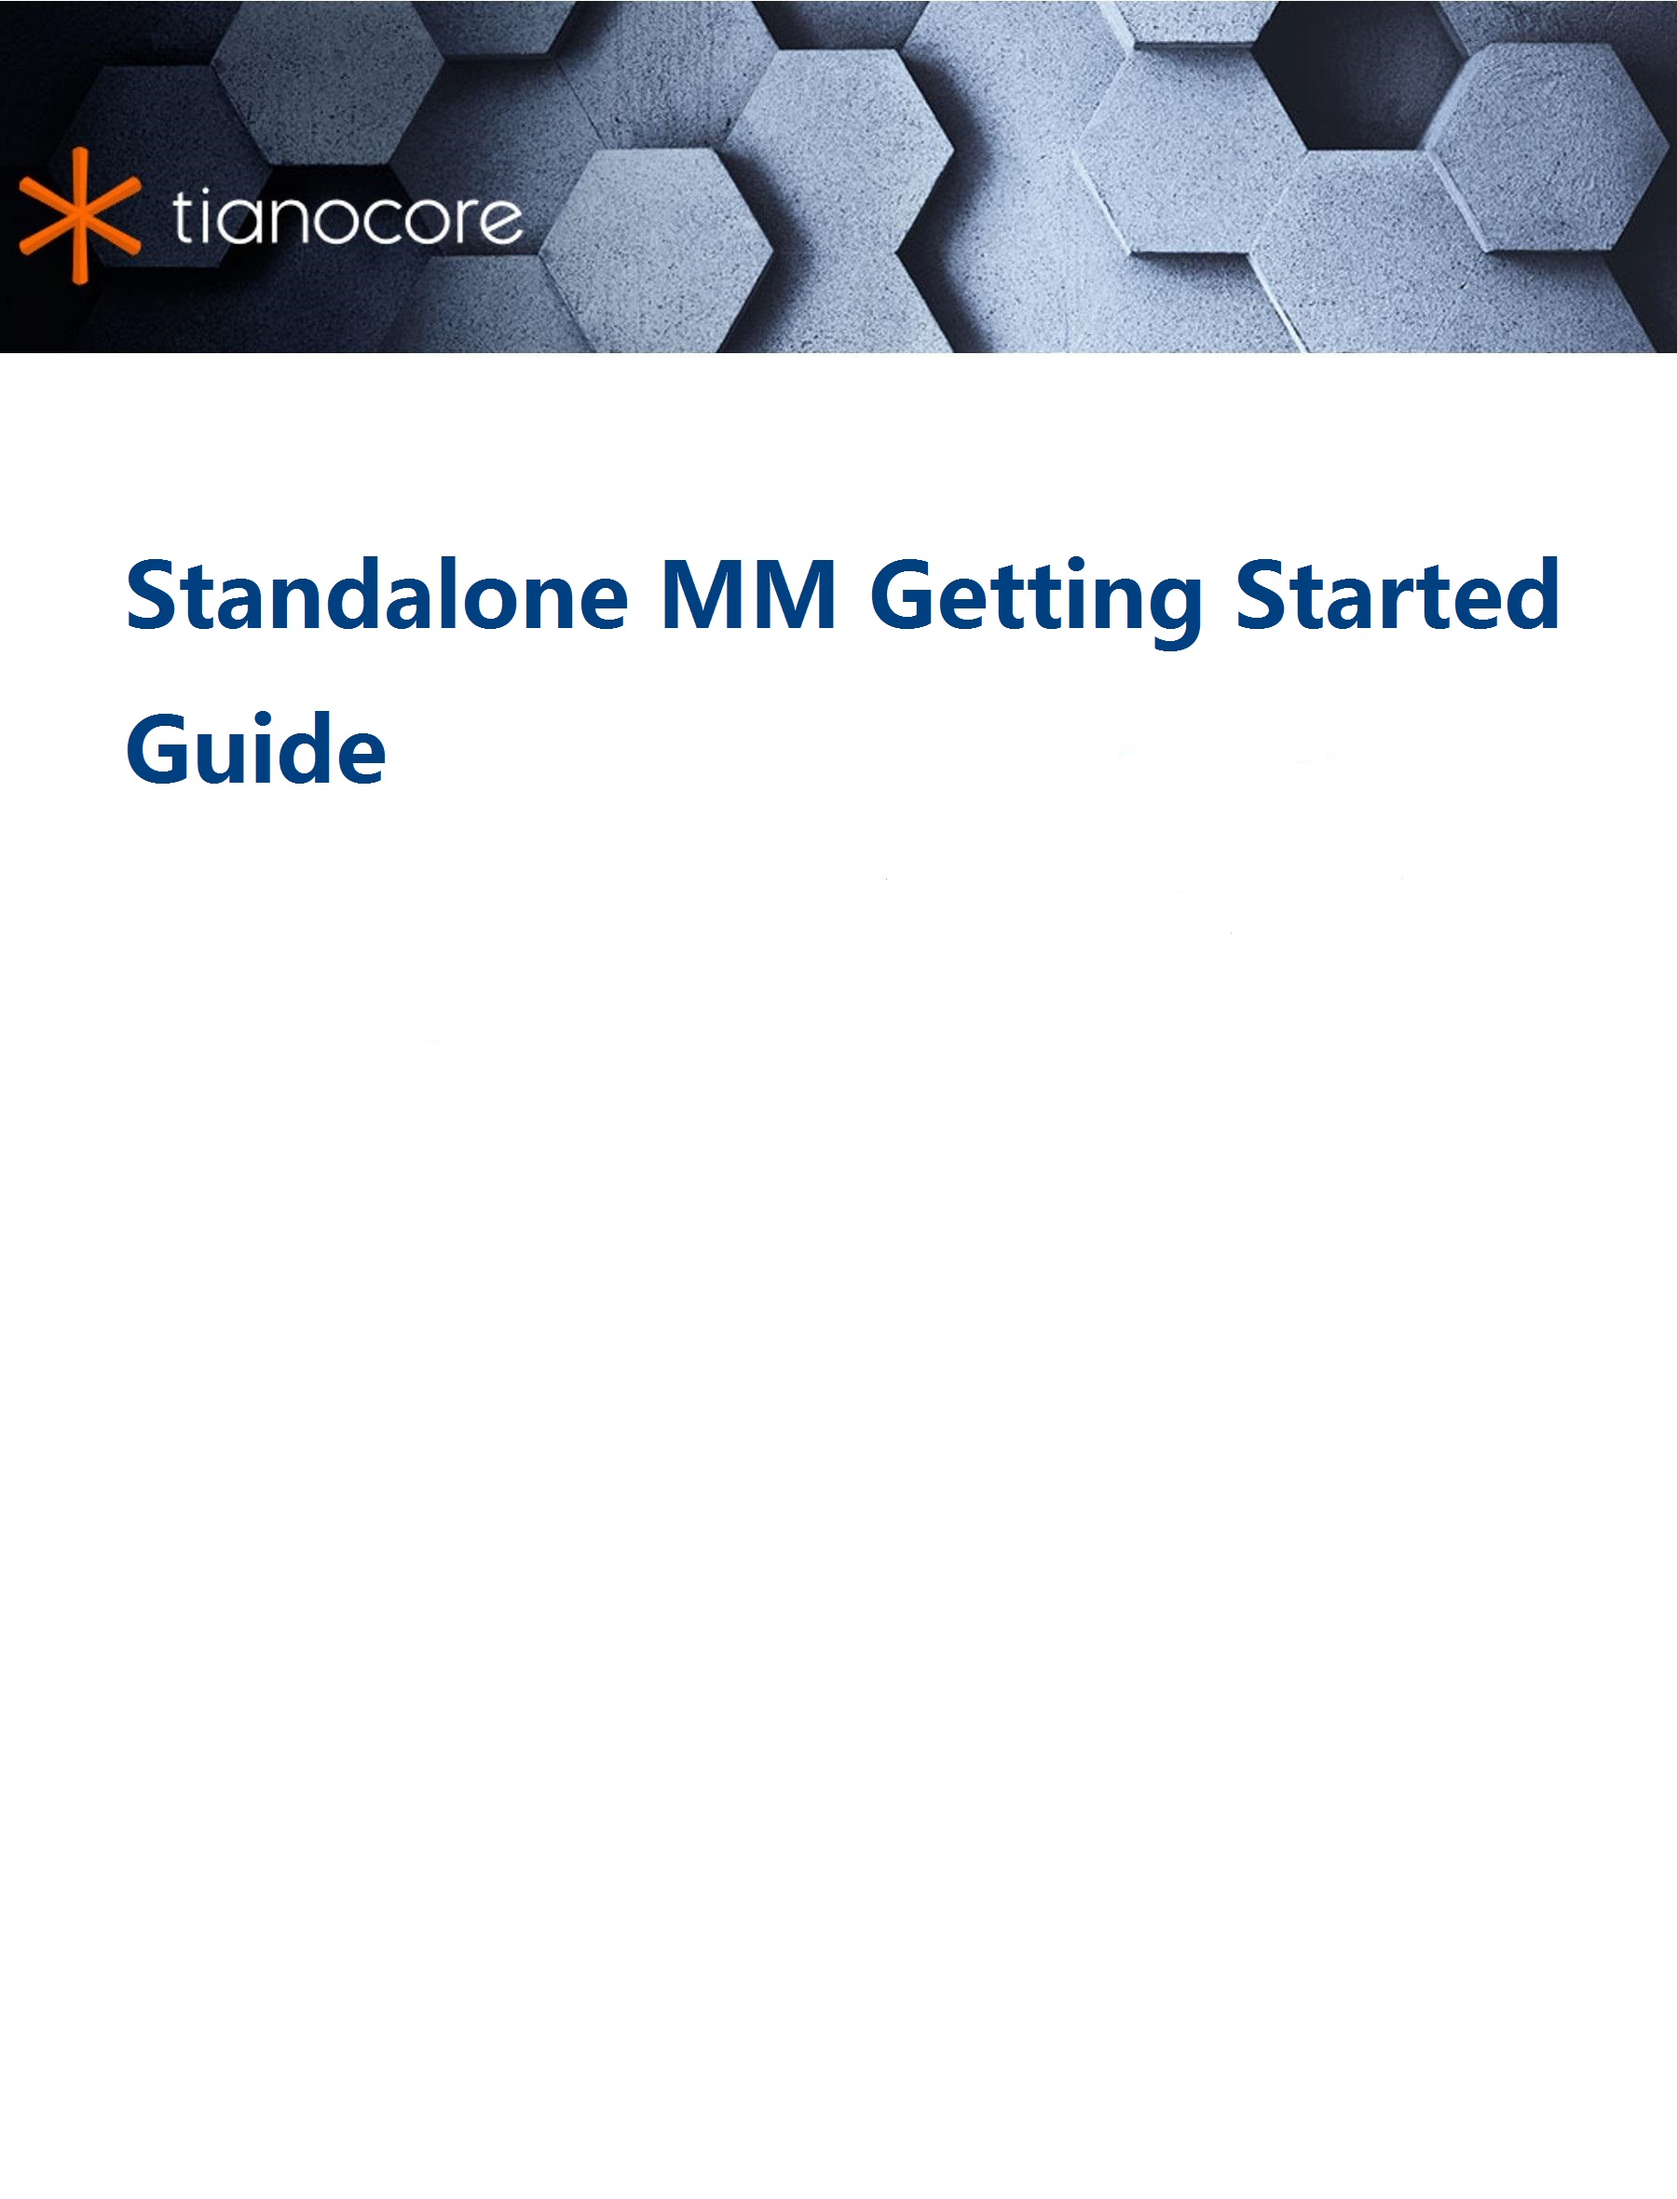
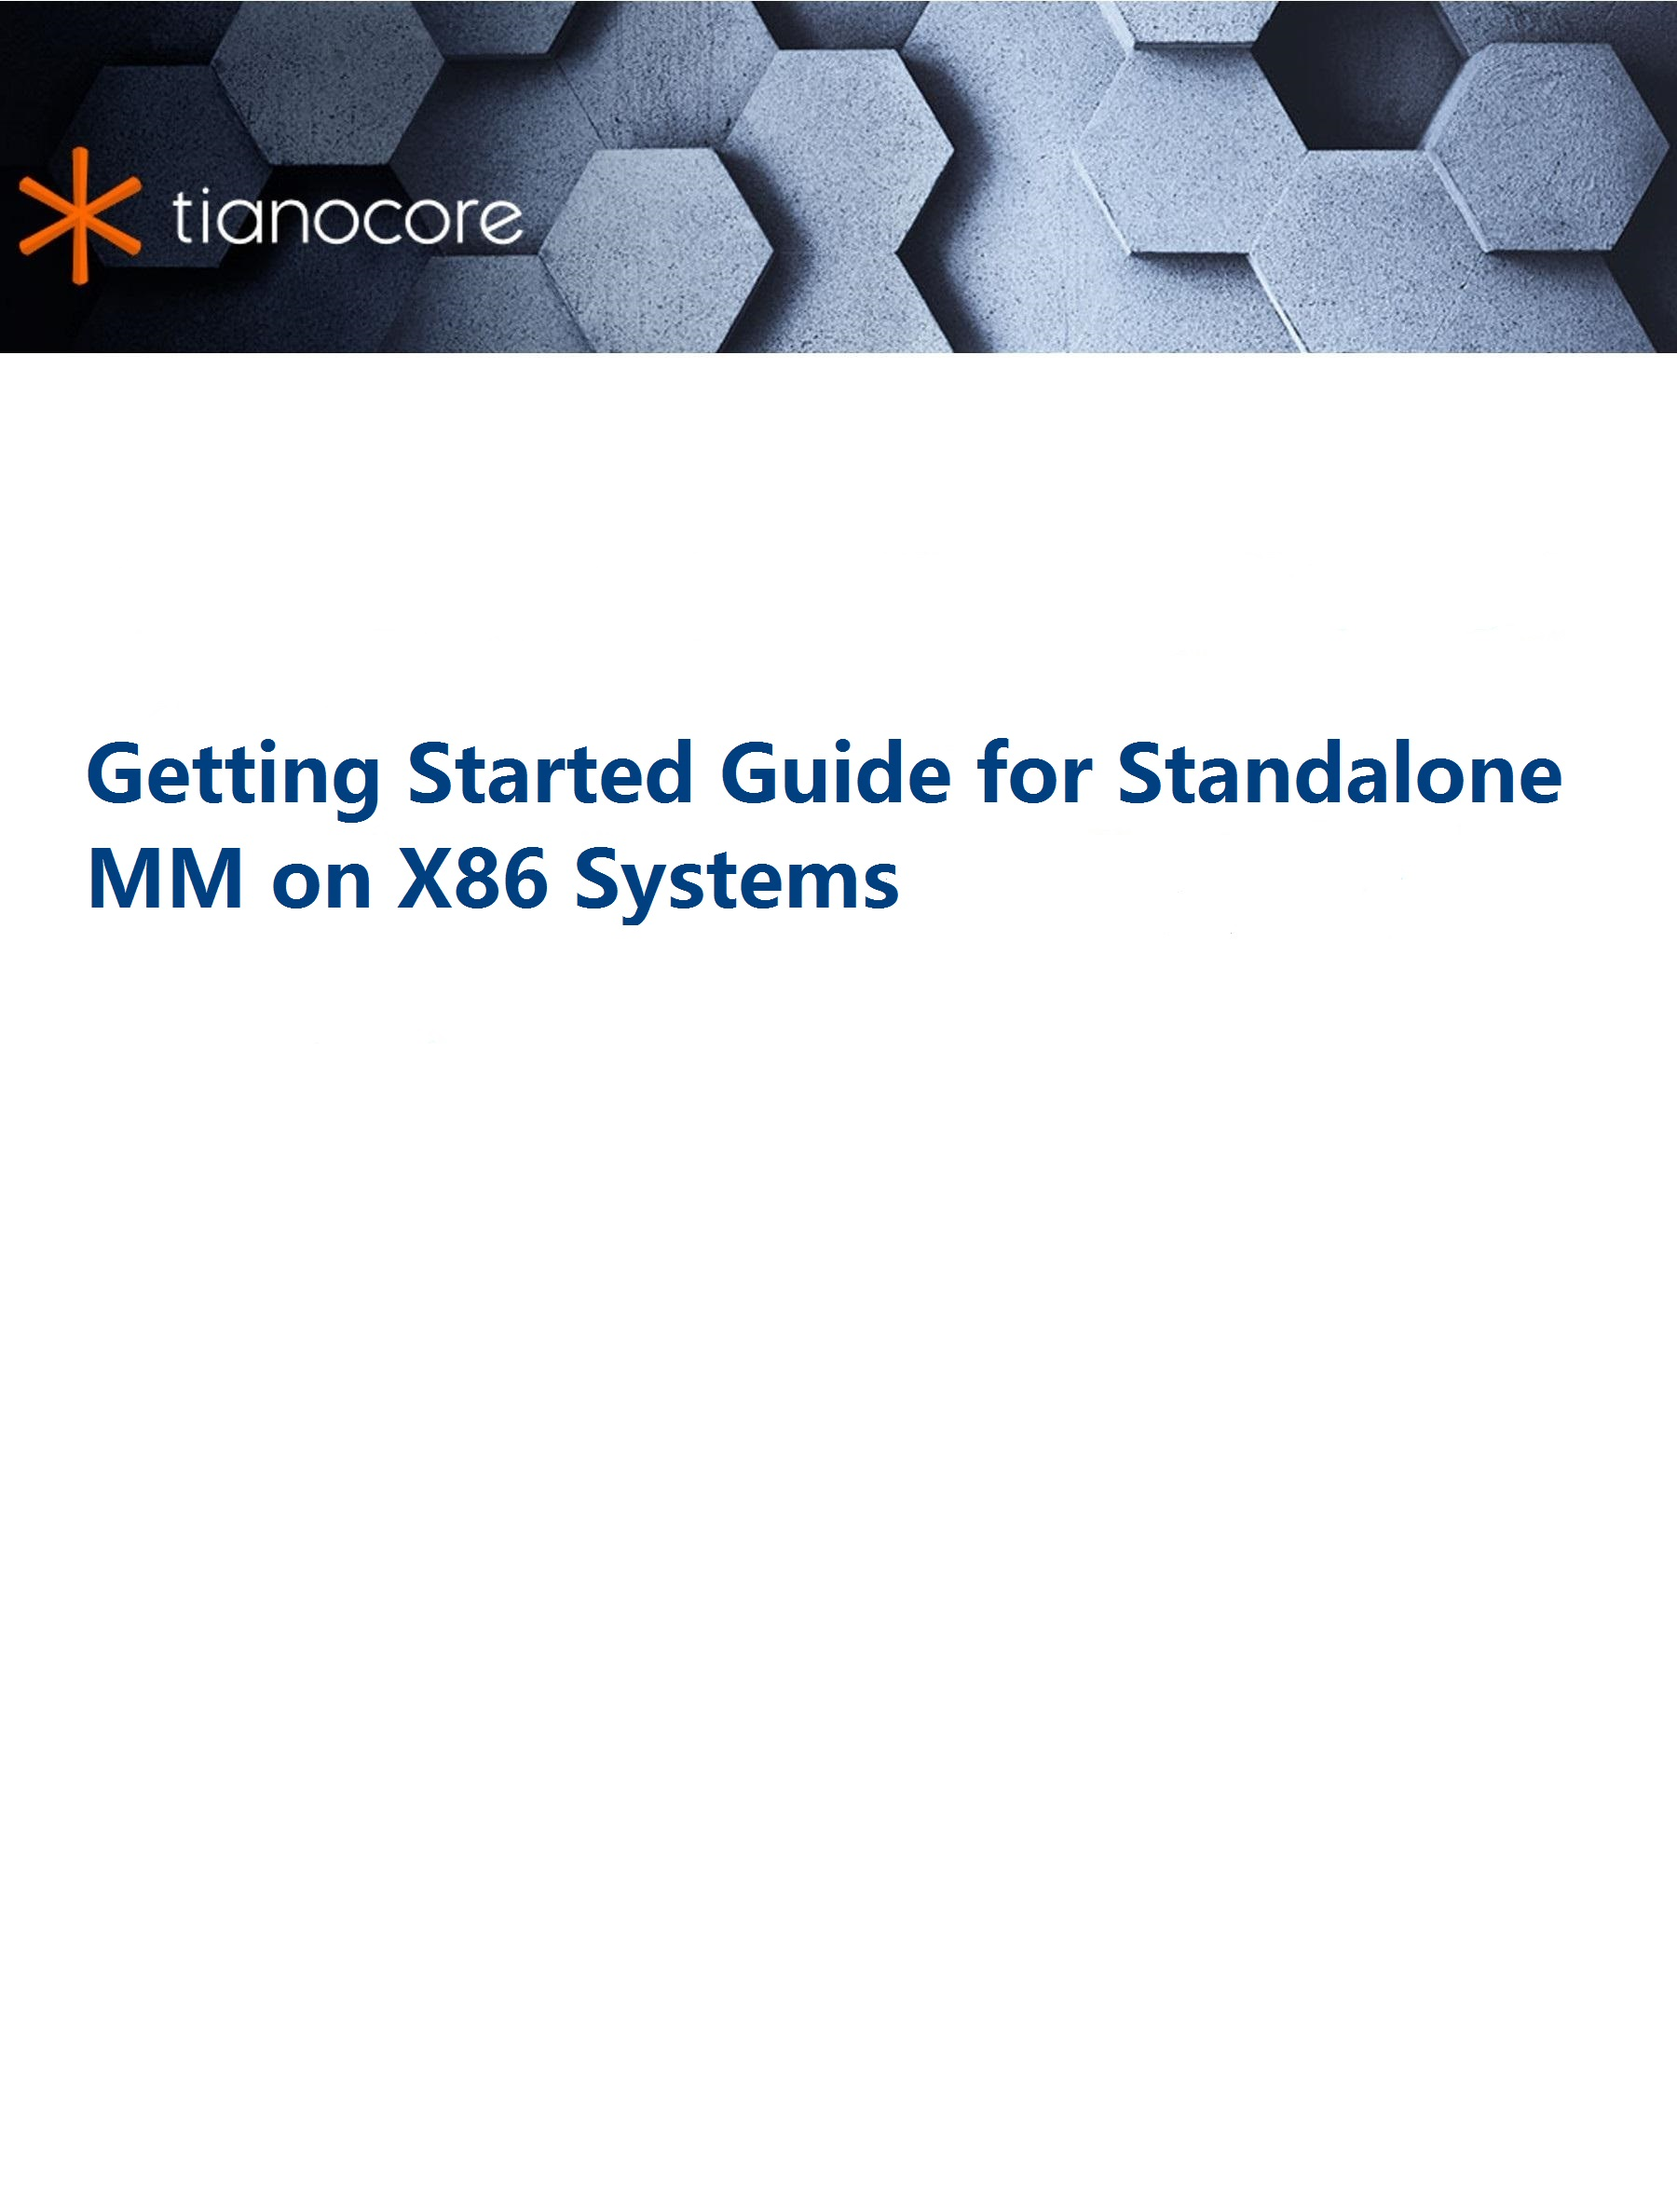
Make the document specific for X86 systems

Changed region(s): [[0.0311, 0.2475, 0.9333, 0.4331]]

diff --git a/1_mm_introduction.md b/1_mm_introduction.md
@@ -1,5 +1,5 @@
 <!--- @file
-  First Chapter of Standalone MM Getting Started Guide
+  First Chapter of Getting Started Guide for Standalone MM on X86 Systems
 
   Copyright (c) 2025, Intel Corporation. All rights reserved.<BR>
 
@@ -33,7 +33,7 @@
 
 ## 1.1 SMM and MM Overview
 
-This section describes the main differences between Traditional SMM and Standalone MM. A detailed comparison of the Traditional MM and Standalone MM load process is described in the PI Specification sections "Initializing Management Mode in MM Traditional Mode" and "Initializing Management Mode in Standalone Mode" respectively.
+This section describes the main differences between Traditional SMM and Standalone MM on X86 systems. A detailed comparison of the Traditional MM and Standalone MM load process is described in the PI Specification sections "Initializing Management Mode in MM Traditional Mode" and "Initializing Management Mode in Standalone Mode" respectively.
 
 In the following comparison, we will use "SMM" to represent "Traditional SMM" and "MM" to represent "Standalone MM".
 
@@ -59,7 +59,7 @@ MM Driver:
 
 ## 1.2 MM Driver Dispatch
 
-For traditional SMM drivers, they are dispatched within multiple rounds: The dispatch is hooked on the `gEfiEventDxeDispatchGuid` event, which is signaled by DXE Core when DXE Core finishes one round of dispatch.
+For traditional SMM drivers dispatch on X86 systems, they are dispatched within multiple rounds: The dispatch is hooked on the `gEfiEventDxeDispatchGuid` event, which is signaled by DXE Core when DXE Core finishes one round of dispatch.
 
 `StandaloneMmIpl` is a PEIM responsible for locating and loading `StandaloneMmCore`. All the MM drivers are dispatched by `StandaloneMmCore` in the 2-round dispatches in X86:
 
@@ -153,7 +153,7 @@ But in cases where silicon initialization code does not want to rely on the comm
 
 The `PiSmmCpuStandaloneMm` driver creates a page table used in MM mode according to the `EFI_HOB_RESOURCE_DESCRIPTOR` in the MM HOB list. The newly created page table controls memory accessibility in MM.
 
-The following table outlines the differences in memory protection policies between the traditional SMM and the Standalone MM. This comparison is particularly relevant for x86 systems and highlights the security enhancements provided by Standalone MM.
+The following table outlines the differences in memory protection policies between the traditional SMM and the Standalone MM. Note: this comparison is particularly relevant for x86 systems and highlights the security enhancements provided by Standalone MM.
 
 | Items                        | Policy                                      | SMM                          | MM                           |
 |------------------------------|---------------------------------------------|------------------------------|------------------------------|

diff --git a/2_smm_to_mm_porting_guide.md b/2_smm_to_mm_porting_guide.md
@@ -1,5 +1,5 @@
 <!--- @file
-  First Chapter of Standalone MM Getting Started Guide
+  First Chapter of Getting Started Guide for Standalone MM on X86 Systems
 
   Copyright (c) 2025, Intel Corporation. All rights reserved.<BR>
 
@@ -33,7 +33,7 @@
 
 ## 2.1 Porting Design Overview
 
-This section provides instructions on how to convert traditional SMM drivers to MM drivers. A traditional SMM driver may need to be split into one or more drivers when transitioning to a Standalone MM driver:
+This section provides instructions on how to convert traditional SMM drivers to MM drivers on X86 systems. A traditional SMM driver may need to be split into one or more drivers when transitioning to a Standalone MM driver:
 
 1. **PEI/DXE Driver**: If the traditional SMM driver contains non-MM initialization code:
    - The PEI driver can be used to either unblock memory or prepare required data for runtime code and pass the data via HOB or Comm PPI/Protocol.

diff --git a/SUMMARY.md b/SUMMARY.md
@@ -31,7 +31,7 @@
 
 # Summary
 
-* [Standalone MM Getting Started Guide](README.md)
+* [Getting Started Guide for Standalone MM on X86 Systems](README.md)
 
 * [1 MM Introduction](1_mm_introduction.md#1-mm-introduction)
   * [1.1 SMM and MM Overview](1_mm_introduction.md#11-smm-and-mm-overview)

diff --git a/README.md b/README.md
@@ -1,5 +1,5 @@
 <!--- @file
-  README.md for Standalone MM Getting Started Guide
+  README.md for Getting Started Guide for Standalone MM on X86 Systems
 
   Copyright (c) 2025, Intel Corporation. All rights reserved.<BR>
 
